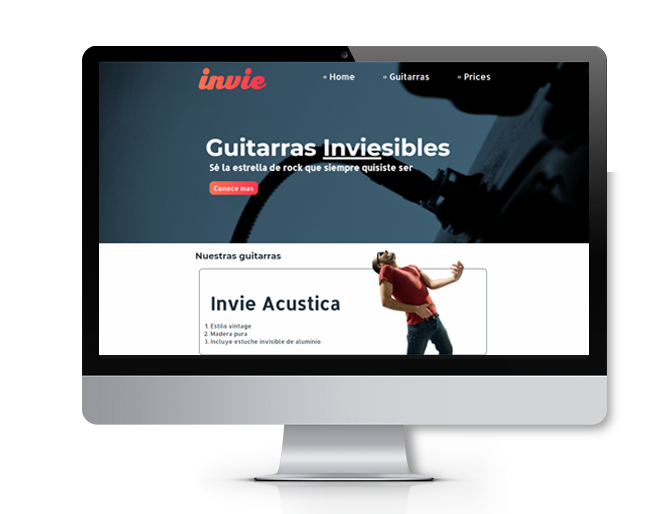
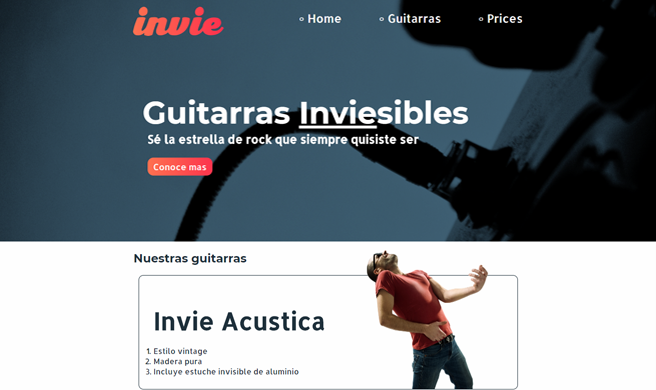
terminando index y comenzando invie

diff --git a/styles/master.css b/styles/master.css
@@ -18,10 +18,19 @@ body {
 }
 
 .menu ul {
+	display: flex;
+	justify-content: center;
+	align-items: center;
 	list-style: none;
+	padding: 0;
+	margin: 0px;
+	width: 150px;
+	height: 70px;
 }
 
 .menu a{
+	width: 70px;
+	height: 130px;
 	text-decoration: none;
 	color: #969696;
 }
@@ -33,6 +42,15 @@ body {
 	height: 400px;
 	background-color: #00a9da;
 }
+
+.portadainvie {
+	display: flex;
+	justify-content: center;
+	width: 100%;
+	height: 400px;
+	background-image:  url("../img/portadainvie.jpg");
+}
+
 
 .contenedor {
 	width: 80%;
@@ -78,7 +96,6 @@ body {
 	width: 100%;
 	align-items: center;
 	flex-direction: column;
-	background-color: #dedddd;
 	padding-bottom: 40px;
 }
 
@@ -114,17 +131,22 @@ body {
 	flex-direction: column;
 	align-items: center;
 	width: 30%;
-	background-color: #00a9da;
+	background-color: white;
+	box-shadow: 0 0 5px;
+	border-radius: 5px;
 }
 
 .arti img{
-	width: 80%;
+	width: 100%;
+	border-radius: 5px 5px 0 0;
+
 }
 
 .arti h3 {
 	width: 90%;
-	margin-top: 30px;
+	margin-top: 10px;
 	margin-bottom: 0;
+	color: #00a9da;
 }
 
 .arti hr {
@@ -140,12 +162,26 @@ body {
 	margin-top: 0;
 }
 
+.arti a {
+	display: flex;
+	justify-content: center;
+	align-items: center;
+	text-decoration: none;
+	background-color: #00a9da;
+	color: white;
+	width: 40%;
+	height: 35px;
+	margin: 15px;
+	border-radius: 30px;
+}
+
 .footer {
 	display: flex;
 	justify-content: space-around;
 	flex-direction: row;
 	align-items: center;
 	height: 260px;
+	box-shadow: 0 0 7px;
 }
 
 .izquierda {
@@ -213,6 +249,15 @@ body {
 
 /*hover*/
 
-.lin:hover {
-	color: #00a9da;
+.lin:hover  {
+	color: white;
+	transition: 0.5s;
 }
+
+.li:hover{
+	background-color: #00a9da;
+	margin: 0;
+	transition: 0.5s;
+	color: white;
+}
+

diff --git a/pages/invie.html b/pages/invie.html
@@ -2,25 +2,21 @@
 <html lang="en">
 <head>
 	<meta charset="UTF-8">
-	<link rel="stylesheet" media="(max-width: 2000px)" href="styles/master.css">
+	<link rel="stylesheet" media="(max-width: 2000px)" href="../styles/master.css">
 	<link href="https://fonts.googleapis.com/css?family=Nanum+Gothic" rel="stylesheet">
 	<script defer src="https://use.fontawesome.com/releases/v5.0.6/js/all.js"></script>
 	<title>Andony Orellana</title>
 </head>
 <body>
 	<nav class="menu">
-		<ul class="li"><li><a class="lin" href="index.html"><i class="fas fa-home"></i> Inicio</a></li></ul>
+		<ul class="li"><li><a class="lin" href="../index.html"><i class="fas fa-home"></i> Inicio</a></li></ul>
 		<ul class="li"><li><a class="lin" href="#"><i class="fas fa-chart-line"></i> Habilidades</a></li></ul>
 		<ul class="li"><li><a class="lin" href="#"><i class="far fa-address-book"></i> Curriculum</a></li></ul>
 		<ul class="li"><li><a class="lin" href="#"><i class="fas fa-envelope"></i> Contactame</a></li></ul>
 	</nav>
-	<div class="portada">
+	<div class="portadainvie">
 		<div class="contenedor">
-			<div class="iz">
-				<h1>Compartiendo mi entusiasmo por el desarrollo web</h1>
-				<a href="#proyects">Descubrir</a>
-			</div>
-			<img src="img/code.png" alt="code">	
+				
 		</div>
 	</div>
 	<div class="proyectos" id="proyects">
